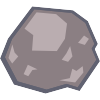
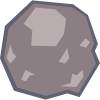
made sprites more pixel style

Changed region(s): [[0.0, 0.0, 1.0, 1.0], [0.57, 0.45, 0.72, 0.63]]

diff --git a/index.js b/index.js
@@ -20,7 +20,7 @@ class Player{
         this.opacity = 1
 
         const image = new Image()
-        image.src = './img/blue_orange_ship.png'
+        image.src = './img/blue_orange_ship_pixel.png'
 
         image.onload = () => {
             const ratio = .5
@@ -168,7 +168,7 @@ class Projectile{
 class Asteroid{
     constructor(){
         const image = new Image()
-        image.src = './img/asteroid_1.png'
+        image.src = './img/asteroid_pixel.png'
 
         image.onload = () => {
             const ratio = Math.random() * 1.2 + .5
@@ -308,7 +308,7 @@ function animate(){
             const PTBorder = player.position.y
 
             //if asteroid goes off screen delete it
-            if(ALBorder > canvas.width || ABBorder > canvas.height){
+            if(ALBorder > canvas.width || ATBorder > canvas.height){
                 setTimeout(()=>{
                     asteroids.splice(i,1)
                 }, 0)
